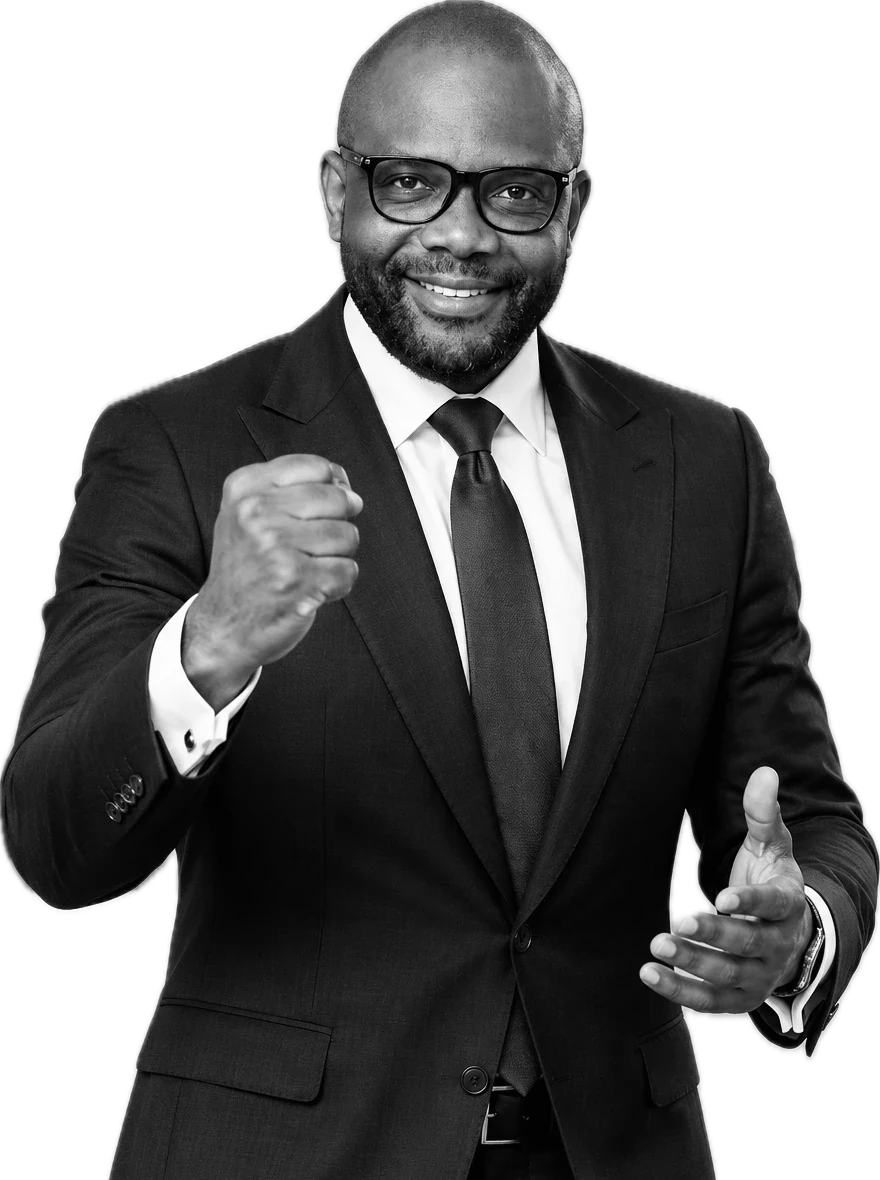
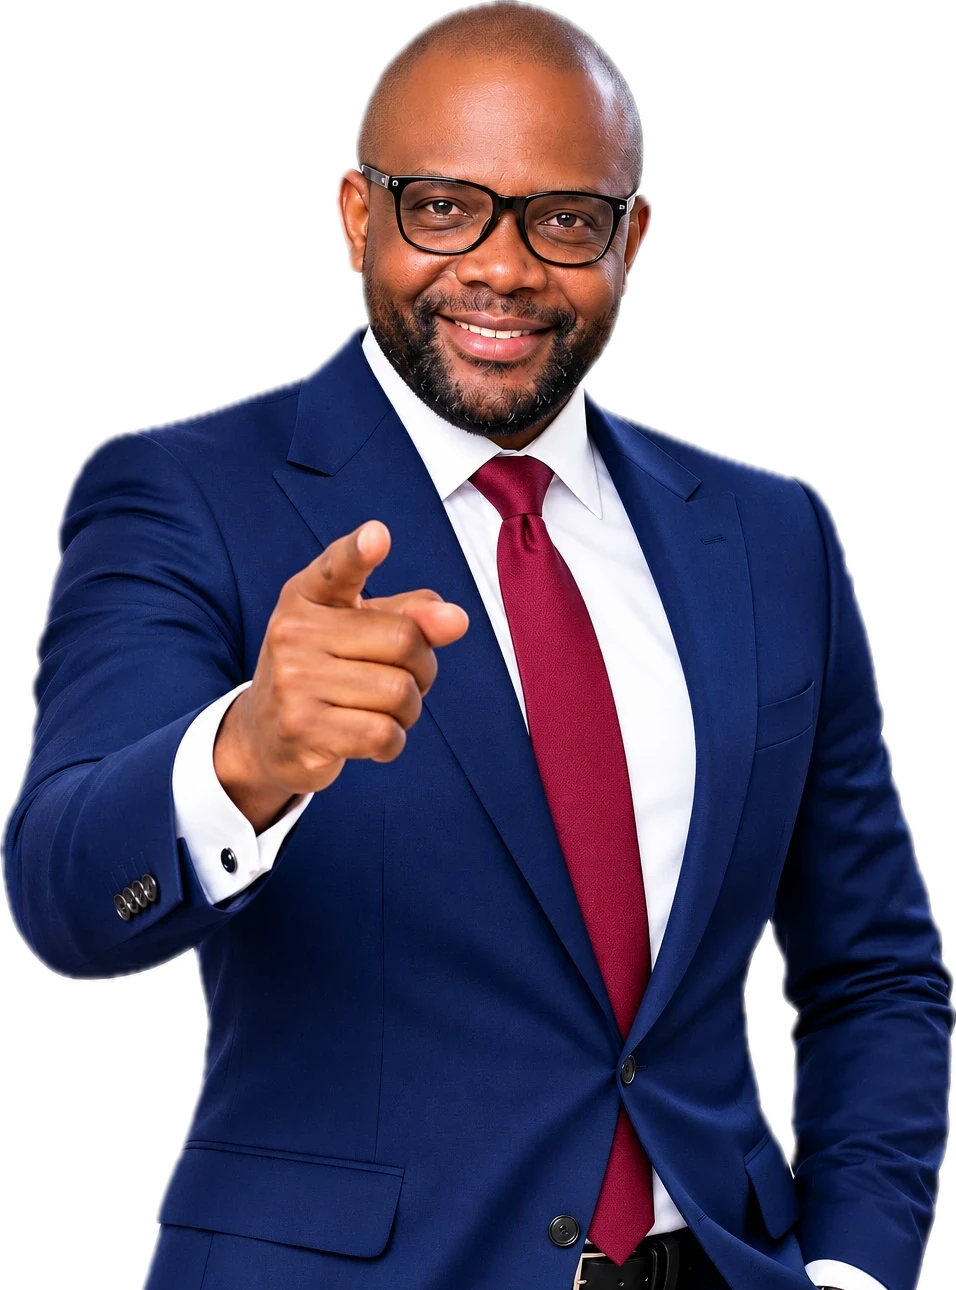
Hero : décor du plateau à la place du portrait ; section présentateur : photo couleur détourée
- Plateau THE BOSS en fond du hero, fondu vers la couleur du site (bords, côté texte)
- Sur mobile, le plateau passe au-dessus du texte en bandeau
- Section Malik Eudy : photo couleur recadrée à la taille, contour nettoyé (liseré clair supprimé)
- Ancienne photo du hero supprimée (plus utilisée)

Claude-Session: https://claude.ai/code/session_01HnUwE9YM9h4yNS9oRsz3KJ

diff --git a/styles.css b/styles.css
@@ -278,32 +278,27 @@ h1, h2, h3 { margin: 0; }
 .hero-actions { display: flex; flex-wrap: wrap; gap: 12px; margin-top: 30px; }
 .hero-actions .btn { padding: 0 22px; }
 
-.hero-visual {
-  position: relative;
-  align-self: end;
-  display: flex; justify-content: center;
+.hero-studio {
+  position: absolute; z-index: 0;
+  right: -6vw; top: 50%;
+  width: min(80vw, 1400px); margin: 0;
+  transform: translateY(-44%);
+  pointer-events: none;
 }
-.hero-halo {
-  position: absolute; left: 50%; top: 18%;
-  width: 72%; aspect-ratio: 1;
-  transform: translateX(-50%);
-  border-radius: 50%;
-  background: radial-gradient(circle, rgba(255, 255, 255, .10) 0%, rgba(26, 52, 120, .45) 40%, transparent 70%);
-  filter: blur(30px);
+.hero-studio img {
+  width: 100%; height: auto;
+  -webkit-mask-image:
+    linear-gradient(to right, transparent 0%, #000 40%, #000 90%, transparent 100%),
+    linear-gradient(to bottom, transparent 0%, #000 28%, #000 70%, transparent 100%);
+  -webkit-mask-composite: source-in;
+  mask-image:
+    linear-gradient(to right, transparent 0%, #000 40%, #000 90%, transparent 100%),
+    linear-gradient(to bottom, transparent 0%, #000 28%, #000 70%, transparent 100%);
+  mask-composite: intersect;
 }
-.hero-halo::before {
-  content: ""; position: absolute; inset: 6%; display: none;
-  border-radius: 50%;
-  border: 1px solid rgba(243, 241, 236, .12);
-}
-.hero-portrait {
-  position: relative;
-  width: min(390px, 88%); height: auto;
-  max-height: calc(100svh - var(--header-h) - 40px);
-  object-fit: contain; object-position: bottom;
-  filter: drop-shadow(-12px 0 40px rgba(120, 160, 255, .12)) drop-shadow(0 20px 30px rgba(0, 0, 0, .45));
-  mask-image: linear-gradient(to bottom, #000 88%, transparent 100%);
-  -webkit-mask-image: linear-gradient(to bottom, #000 88%, transparent 100%);
+.hero-studio::after { /* fond vers la couleur du site, côté texte */
+  content: ""; position: absolute; inset: 0;
+  background: linear-gradient(to right, var(--ink) 0%, rgba(37, 42, 57, .7) 28%, rgba(37, 42, 57, .2) 45%, transparent 58%);
 }
 
 .scroll-hint {
@@ -788,13 +783,22 @@ h1, h2, h3 { margin: 0; }
   .nav-cta-mobile .btn { width: 100%; color: #fff; }
   .site-header.menu-open { background: rgba(37, 42, 57, .97); border-bottom-color: var(--line); }
 
-  .hero { min-height: auto; padding-top: calc(var(--header-h) + 36px); }
+  .hero { min-height: auto; padding-top: calc(var(--header-h) + 12px); flex-direction: column; align-items: stretch; }
   .hero-grid { grid-template-columns: 1fr; gap: 10px; }
   .hero-copy { padding-bottom: 0; text-align: center; display: flex; flex-direction: column; align-items: center; }
   .hero-lead { margin-inline: auto; }
   .hero-actions { justify-content: center; }
   .hero-logo img { margin-inline: auto; }
-  .hero-portrait { width: min(290px, 70%); max-height: none; }
+  .hero-studio {
+    position: relative; order: -1;
+    right: auto; top: auto; transform: none;
+    width: calc(100% + 2 * var(--gutter)); margin: 0 calc(-1 * var(--gutter)) 6px;
+  }
+  .hero-studio img {
+    -webkit-mask-image: linear-gradient(to bottom, transparent 0%, #000 12%, #000 70%, transparent 100%);
+    mask-image: linear-gradient(to bottom, transparent 0%, #000 12%, #000 70%, transparent 100%);
+  }
+  .hero-studio::after { display: none; }
   .scroll-hint { display: none; }
 
   .section-head--split { grid-template-columns: 1fr; gap: 18px; }

diff --git a/index.html b/index.html
@@ -55,6 +55,9 @@
       <div class="hero-bg" aria-hidden="true">
         <span class="hero-word">BOSS</span>
       </div>
+      <figure class="hero-studio">
+        <img src="assets/img/studio-the-boss.webp" alt="Le plateau de THE BOSS : deux fauteuils face à face autour d’une table basse, devant le logo lumineux de l’émission" width="1672" height="941" fetchpriority="high">
+      </figure>
 
       <div class="container hero-grid">
         <div class="hero-copy">
@@ -78,10 +81,6 @@
           </div>
         </div>
 
-        <div class="hero-visual reveal">
-          <div class="hero-halo" aria-hidden="true"></div>
-          <img class="hero-portrait" src="assets/img/malik-eudy.webp" alt="Malik Eudy, présentateur de THE BOSS, en costume bleu marine, pointant du doigt" width="956" height="1530" fetchpriority="high">
-        </div>
       </div>
 
       <a href="#bienvenue" class="scroll-hint" aria-label="Découvrir le podcast">
@@ -260,7 +259,7 @@
       <div class="container host-grid">
         <div class="host-visual reveal">
           <div class="host-frame">
-            <img src="assets/img/malik-eudy-portrait.webp" alt="Portrait de Malik Eudy en costume sombre, souriant, le poing levé" width="880" height="1180" loading="lazy">
+            <img src="assets/img/malik-eudy-portrait.webp" alt="Malik Eudy, présentateur de THE BOSS, en costume bleu marine, pointant du doigt" width="956" height="1290" loading="lazy">
           </div>
           <span class="host-frame-label" aria-hidden="true">Votre hôte</span>
         </div>
